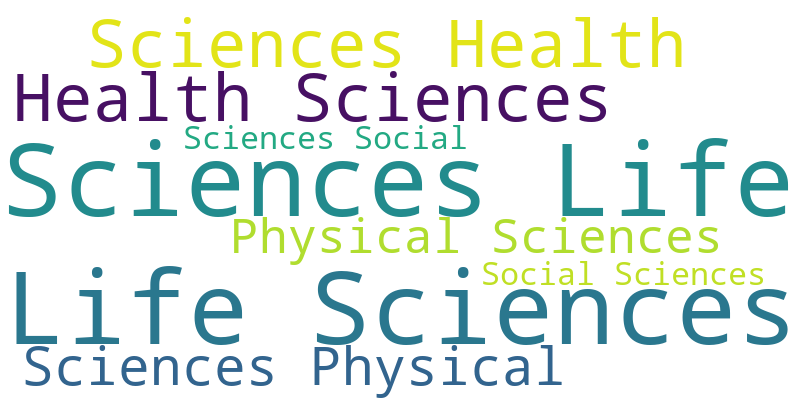
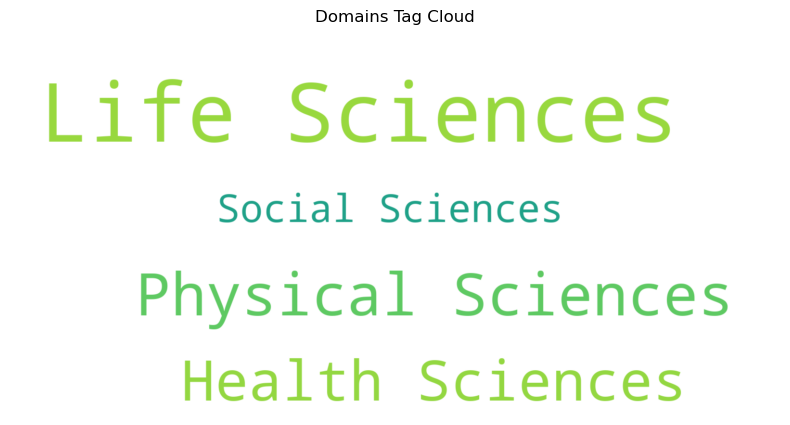
Update code to properly consider multi-word topics

Changed region(s): [[0.0, 0.03, 1.0, 1.0]]

diff --git a/topics/enrich_with_topics.py b/topics/enrich_with_topics.py
@@ -10,8 +10,11 @@ aggregated_papers_fd = sys.argv[1]
 # Load TSV into DataFrame
 df = pd.read_csv(aggregated_papers_fd, sep='\t')
 
-# Initialize the 'openalex_topics' column with None
-df['openalex_topics'] = None
+# Initialize the new columns
+df['topics'] = None
+df['subfields'] = None
+df['fields'] = None
+df['domains'] = None
 
 # Configuration
 email = "s.chatzopoulos@gmail.com"  # Update to your actual email
@@ -25,26 +28,34 @@ success_count = 0
 not_found_count = 0
 error_count = 0
 
-# Counters for each ID type attempt
-doi_attempts = 0
-pmid_attempts = 0
-pmcid_attempts = 0
-
-# Time-tracking for periodic printout
-start_time = time.time()
-status_print_interval = 60  # seconds
-
-# Function to query OpenAlex API with rate limiting and status tracking
+# Function to query OpenAlex API
 def get_topics(openalex_url):
     global success_count, not_found_count, error_count
     response = requests.get(openalex_url, headers=headers)
-    time.sleep(0.1)  # 5 requests per second = 0.2 second delay
+    time.sleep(0.1)  # Rate limiting
     
     if response.status_code == 200:
         success_count += 1
         data = response.json()
         if 'topics' in data:
-            return data['topics']
+            # Extract topics, subfields, fields, domains
+            topics = []
+            subfields = []
+            fields = []
+            domains = []
+
+            for concept in data['topics']:
+                topics.append(concept['display_name'])
+                subfields.append(concept['subfield']['display_name'] if 'subfield' in concept else '')
+                fields.append(concept['field']['display_name'] if 'field' in concept else '')
+                domains.append(concept['domain']['display_name'] if 'domain' in concept else '')
+
+            return {
+                "topics": '|'.join(topics),
+                "subfields": '|'.join(set(subfields)),  # Use set to remove duplicates
+                "fields": '|'.join(set(fields)),
+                "domains": '|'.join(set(domains))
+            }
     elif response.status_code == 404:
         not_found_count += 1
     else:
@@ -55,72 +66,54 @@ def get_topics(openalex_url):
 
 # Function to build OpenAlex URL and try with fallbacks
 def fetch_openalex_topics(row):
-    global doi_attempts, pmid_attempts, pmcid_attempts
-    
-    # Split identifiers by '|'
+    # Try DOI, then PMID, then PMCID
     doi_list = str(row['final_doi']).split('|') if pd.notna(row['final_doi']) else []
     pmid_list = str(row['pmid']).split('|') if pd.notna(row['pmid']) else []
     pmcid_list = str(row['pmcid']).split('|') if pd.notna(row['pmcid']) else []
 
-    # Attempt with DOI
     for doi in doi_list:
-        doi_attempts += 1
-        doi = doi.strip()  # Clean whitespace
-        openalex_url = f"{api_base_url}/doi/{doi}?mailto={email}"
-        topics = get_topics(openalex_url)
-        if topics:  # Return topics if found using DOI
-            return json.dumps(topics)
+        openalex_url = f"{api_base_url}/doi/{doi.strip()}?mailto={email}"
+        topics_data = get_topics(openalex_url)
+        if topics_data:
+            return topics_data
 
-    # Attempt with PMID
     for pmid in pmid_list:
-        pmid_attempts += 1
-        pmid_value = float(pmid.strip())  # Convert to float first
-        openalex_url = f"{api_base_url}/pmid:{int(pmid_value)}?mailto={email}"
-        topics = get_topics(openalex_url)
-        if topics:  # Return topics if found using PMID
-            return json.dumps(topics)
+        openalex_url = f"{api_base_url}/pmid:{int(float(pmid.strip()))}?mailto={email}"
+        topics_data = get_topics(openalex_url)
+        if topics_data:
+            return topics_data
 
-    # Attempt with PMCID
     for pmcid in pmcid_list:
-        pmcid_attempts += 1
-        pmcid = pmcid.strip()  # Clean whitespace
-        openalex_url = f"{api_base_url}/pmcid:{pmcid}?mailto={email}"
-        topics = get_topics(openalex_url)
-        if topics:  # Return topics if found using PMCID
-            return json.dumps(topics)
+        openalex_url = f"{api_base_url}/pmcid:{pmcid.strip()}?mailto={email}"
+        topics_data = get_topics(openalex_url)
+        if topics_data:
+            return topics_data
 
-    return None  # Return None if no topics were found for any identifier
+    return None
 
-# Open the output file in write mode first to create the header
+# Output file
 output_file = "enriched_aggregated_papers_with_topics.csv"
-df.iloc[0:0].to_csv(output_file, sep='\t', index=False)  # Write the header only
+df.iloc[0:0].to_csv(output_file, sep='\t', index=False)  # Write header
 
-# Apply the topic-fetching function to each row with periodic status output
+# Apply the topic-fetching function
 for index, row in df.iterrows():
-    topics = fetch_openalex_topics(row)
-    df.at[index, 'openalex_topics'] = topics
+    topics_data = fetch_openalex_topics(row)
+    
+    # Assign the data to the DataFrame columns
+    if topics_data:
+        df.at[index, 'topics'] = topics_data["topics"]
+        df.at[index, 'subfields'] = topics_data["subfields"]
+        df.at[index, 'fields'] = topics_data["fields"]
+        df.at[index, 'domains'] = topics_data["domains"]
 
-    # Write the entire row to the file immediately
+    # Write the updated row to the file
     row_with_topics = row.copy()  # Make a copy of the row
-    row_with_topics['openalex_topics'] = topics  # Assign the fetched topics
+    row_with_topics['topics'] = topics_data["topics"] if topics_data else None
+    row_with_topics['subfields'] = topics_data["subfields"] if topics_data else None
+    row_with_topics['fields'] = topics_data["fields"] if topics_data else None
+    row_with_topics['domains'] = topics_data["domains"] if topics_data else None
+
+    # Append to file without the header
     row_with_topics.to_frame().T.to_csv(output_file, sep='\t', mode='a', header=False, index=False)
-
-    # Print status every specified interval
-    if (time.time() - start_time) >= status_print_interval:
-        print(f"Requests succeeded: {success_count}")
-        print(f"Requests not found (404): {not_found_count}")
-        print(f"Requests errored: {error_count}")
-        print(f"DOI attempts: {doi_attempts}")
-        print(f"PMID attempts: {pmid_attempts}")
-        print(f"PMCID attempts: {pmcid_attempts}")
-        print()
-        start_time = time.time()  # reset start time after each print
-
-# Final status output after completing all requests
-print("Final counts after processing all rows:")
-print(f"Requests succeeded: {success_count}")
-print(f"Requests not found (404): {not_found_count}")
-print(f"Requests errored: {error_count}")
-print(f"DOI attempts: {doi_attempts}")
-print(f"PMID attempts: {pmid_attempts}")
-print(f"PMCID attempts: {pmcid_attempts}")
+    
+print("Processing complete. Check the output file for enriched data.")

diff --git a/topics/create_tag_clouds.py b/topics/create_tag_clouds.py
@@ -1,41 +1,48 @@
 import pandas as pd
-import numpy as np
+from collections import Counter
 from wordcloud import WordCloud
 import matplotlib.pyplot as plt
-import json
 
 # Read the CSV file with tab delimiter
 df = pd.read_csv('enriched_aggregated_papers_with_topics.csv', sep='\t')
 
-# Function to safely parse JSON and extract display names, subfields, fields, and domains
-def extract_display_names(row):
-    if pd.isna(row['openalex_topics']):
-        return [], [], [], []  # Return empty lists if the data is NaN
-    try:
-        items = json.loads(row['openalex_topics'])
-        topics = [item['display_name'] for item in items]
-        subfields = [item['subfield']['display_name'] for item in items if 'subfield' in item]
-        fields = [item['field']['display_name'] for item in items if 'field' in item]
-        domains = [item['domain']['display_name'] for item in items if 'domain' in item]
-        return topics, subfields, fields, domains
-    except (ValueError, TypeError):
-        return [], [], [], []  # Return empty lists on error
+# Helper function to split and flatten columns containing '|' separated values, and get frequencies
+def get_frequency_dict(column_data):
+    # Flatten, split on '|', remove empty items, and count frequencies
+    words = [item.strip() for sublist in column_data.dropna() for item in sublist.split('|') if item.strip()]
+    return dict(Counter(words))
 
-# Apply the function to extract topics, subfields, fields, and domains
-df[['extracted_topics', 'extracted_subfields', 'extracted_fields', 'extracted_domains']] = df.apply(
-    lambda row: pd.Series(extract_display_names(row)), axis=1
-)
+# Generate a word cloud from a frequency dictionary
+def create_tag_cloud_from_frequencies(freq_dict, title, filename):
+    # Generate the word cloud with full canvas utilization settings
+    wordcloud = WordCloud(
+        width=800, 
+        height=400, 
+        background_color='white', 
+        collocations=False,
+        max_words=200,  # Adjust as needed based on the frequency dictionary size
+        scale=2,  # Increase scaling for better fit
+        prefer_horizontal=0.7,  # Adjust orientation to fit more words
+        margin=0  # Remove outer margin for full canvas usage
+    ).generate_from_frequencies(freq_dict)
+    
+    # Display and save the word cloud
+    plt.figure(figsize=(10, 5))
+    plt.imshow(wordcloud, interpolation="bilinear")
+    plt.axis('off')
+    plt.title(title)
+    plt.savefig(filename, bbox_inches='tight')  # bbox_inches='tight' to minimize padding in saved file
+    plt.close()
 
-# Create a function to generate and save a tag cloud
-def create_tag_cloud(data, title, filename):
-    text = ' '.join([item for sublist in data.dropna() for item in sublist])
-    wordcloud = WordCloud(width=800, height=400, background_color='white').generate(text)
 
-    # Save the word cloud image to a file
-    wordcloud.to_file(filename)
+# Extract frequencies for topics, subfields, fields, and domains
+topics_freq = get_frequency_dict(df['topics'])
+subfields_freq = get_frequency_dict(df['subfields'])
+fields_freq = get_frequency_dict(df['fields'])
+domains_freq = get_frequency_dict(df['domains'])
 
-# Create and save tag clouds for topics, subfields, fields, and domains
-create_tag_cloud(df['extracted_topics'], 'Topics Tag Cloud', 'tagclouds/topics_tag_cloud.png')
-create_tag_cloud(df['extracted_subfields'], 'Subfields Tag Cloud', 'tagclouds/subfields_tag_cloud.png')
-create_tag_cloud(df['extracted_fields'], 'Fields Tag Cloud', 'tagclouds/fields_tag_cloud.png')
-create_tag_cloud(df['extracted_domains'], 'Domains Tag Cloud', 'tagclouds/domains_tag_cloud.png')
+# Create and save tag clouds using frequencies
+create_tag_cloud_from_frequencies(topics_freq, 'Topics Tag Cloud', 'tagclouds/topics_tag_cloud.png')
+create_tag_cloud_from_frequencies(subfields_freq, 'Subfields Tag Cloud', 'tagclouds/subfields_tag_cloud.png')
+create_tag_cloud_from_frequencies(fields_freq, 'Fields Tag Cloud', 'tagclouds/fields_tag_cloud.png')
+create_tag_cloud_from_frequencies(domains_freq, 'Domains Tag Cloud', 'tagclouds/domains_tag_cloud.png')
